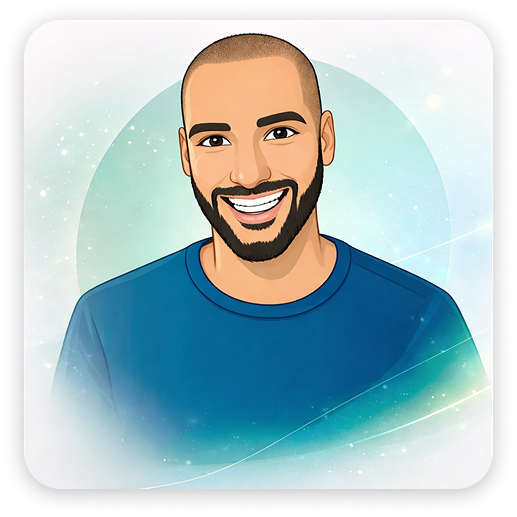
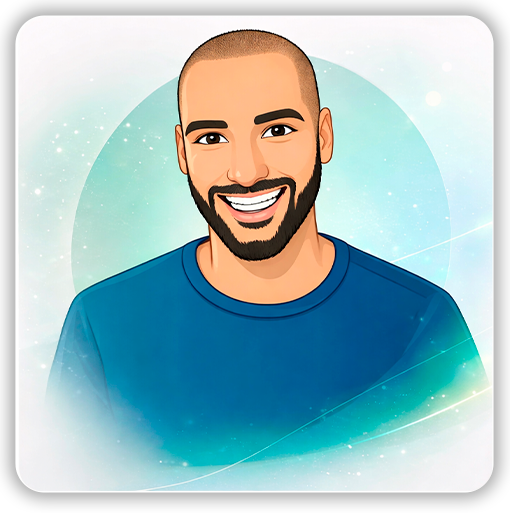
feat: intensificado glassmorphism, ajuste pixel-perfect na hero e swipe-to-close no mobile

diff --git a/src/components/HeroSection/HeroSection.tsx b/src/components/HeroSection/HeroSection.tsx
@@ -1,32 +1,11 @@
 'use client';
 
 import Image from 'next/image';
-import { motion } from 'framer-motion';
 
 export default function HeroSection() {
-  const containerVariants = {
-    hidden: { opacity: 0 },
-    visible: {
-      opacity: 1,
-      transition: {
-        staggerChildren: 0.15,
-        delayChildren: 0.2,
-      },
-    },
-  };
-
-  const itemVariants = {
-    hidden: { opacity: 0, y: 20 },
-    visible: {
-      opacity: 1,
-      y: 0,
-      transition: { duration: 0.8, ease: 'easeOut' },
-    },
-  };
-
   return (
     <section id="início" className="relative pt-4 lg:pt-16 pb-16 overflow-hidden">
-      {/* Background */}
+      {/* Background Decorativo */}
       <div className="absolute inset-0 -z-10">
         <Image
           src="/assets/images/backgrounds/bg-liquid-forms.jpg"
@@ -39,84 +18,68 @@ export default function HeroSection() {
         <div className="absolute inset-0 bg-gradient-to-b from-white/40 via-white/50 to-cyan-50/40 dark:from-slate-950/50 dark:via-slate-900/50 dark:to-blue-950/30" />
       </div>
 
-      {/* Main Container */}
       <div className="mx-auto max-w-7xl px-4 md:px-6 lg:px-8">
-        <motion.div
-          className="relative rounded-3xl overflow-hidden bg-gradient-to-br from-white/25 to-cyan-100/25 dark:from-slate-800/50 dark:to-blue-900/50 backdrop-blur-xl border border-white/60 dark:border-white/20 shadow-[0px_4px_24px_0px_rgba(0,0,0,0.25)] p-8 sm:p-12 lg:p-10"
-          variants={containerVariants}
-          initial="hidden"
-          animate="visible"
-        >
-          <div className="grid grid-cols-1 lg:grid-cols-2 gap-12 lg:gap-8">
+        <div className="relative rounded-3xl overflow-hidden bg-white/10 dark:bg-slate-900/40 backdrop-blur-[24px] border border-white/40 dark:border-white/10 shadow-[0px_8px_32px_0px_rgba(0,0,0,0.3)] p-8 sm:p-12 lg:p-10 animate-in fade-in duration-700">
+          <div className="grid grid-cols-1 lg:grid-cols-2 gap-12 lg:gap-8 items-center">
 
             {/* Coluna de texto */}
-            <motion.div className="flex flex-col justify-center items-center lg:items-start space-y-6 text-center lg:text-left">
-
-              <motion.div variants={itemVariants}>
-                <h1 className="font-black text-4xl sm:text-6xl md:text-6xl lg:text-5xl xl:text-6xl leading-tight tracking-tighter font-gotham">
-                  <span className="text-blue-900 dark:text-blue-300">Oi, eu sou Abner</span>
+            <div className="flex flex-col justify-center items-center lg:items-start space-y-6 text-center lg:text-left order-1">
+              <div className="animate-in fade-in slide-in-from-bottom-4 duration-700 delay-150 fill-mode-both">
+                <h1 className="font-black text-4xl sm:text-6xl lg:text-5xl xl:text-6xl leading-tight tracking-tighter font-gotham text-blue-900 dark:text-blue-300">
+                  Oi, eu sou Abner
                 </h1>
-              </motion.div>
+              </div>
 
-              <motion.p
-                variants={itemVariants}
-                className="text-xl sm:text-2xl md:text-2xl lg:text-2xl font-bold text-emerald-600 dark:text-emerald-400 leading-tight"
-              >
+              <p className="text-xl font-bold text-emerald-600 dark:text-emerald-400 leading-tight animate-in fade-in slide-in-from-bottom-4 duration-700 delay-300 fill-mode-both">
                 Eu crio marcas e construo experiências digitais modernas.
-              </motion.p>
+              </p>
 
-              <motion.p
-                variants={itemVariants}
-                className="text-base sm:text-lg md:text-base text-slate-700 dark:text-slate-300 leading-relaxed max-w-lg"
-              >
+              <p className="text-base text-slate-700 dark:text-slate-300 leading-relaxed max-w-lg animate-in fade-in slide-in-from-bottom-4 duration-700 delay-500 fill-mode-both">
                 Designer com trajetória desde 2011 em branding, UI/UX e design digital,
                 combinando criatividade, estratégia e desenvolvimento front-end.
-              </motion.p>
+              </p>
 
-              {/* Foto mobile */}
-              <motion.div variants={itemVariants} className="flex justify-center lg:hidden w-full">
-                <div className="relative w-full max-w-xs sm:max-w-sm rounded-3xl overflow-hidden">
+              {/* Foto mobile - Onde aplicamos o Zoom de "5px" (scale-110) */}
+              <div className="flex justify-center lg:hidden w-full animate-in fade-in slide-in-from-bottom-4 duration-700 delay-700 fill-mode-both py-4">
+                <div className="relative w-full max-w-[280px] aspect-square rounded-3xl overflow-hidden border border-white/20 shadow-xl bg-white/5">
                   <Image
                     src="/assets/images/profile/abner-hero-photo.png"
-                    alt="Abner Simão - Designer Gráfico e Desenvolvedor Front-end"
-                    width={469}
-                    height={469}
-                    className="w-full h-full object-cover"
+                    alt="Abner Simão"
+                    fill
+                    className="object-cover object-top scale-[1.10]" 
                     priority
-                    quality={85}
+                    quality={100}
                   />
                 </div>
-              </motion.div>
+              </div>
 
               {/* Botões */}
-              <motion.div variants={itemVariants} className="flex flex-col sm:flex-row gap-4 pt-4 w-full justify-center lg:justify-start">
-                <button className="px-8 py-3 rounded-xl border-2 border-blue-900 dark:border-blue-400 text-blue-900 dark:text-blue-300 font-bold uppercase tracking-tight transition-all hover:bg-blue-900 hover:text-white dark:hover:bg-blue-400 dark:hover:text-slate-950 text-sm md:text-base">
+              <div className="flex flex-col sm:flex-row gap-4 pt-4 w-full justify-center lg:justify-start animate-in fade-in slide-in-from-bottom-4 duration-700 delay-1000 fill-mode-both">
+                <button className="px-8 py-3 rounded-xl border-2 border-blue-900 dark:border-blue-400 text-blue-900 dark:text-blue-300 font-bold uppercase tracking-tight transition-all hover:bg-blue-900 hover:text-white text-sm">
                   Ver Projetos
                 </button>
-                <button className="px-8 py-3 rounded-xl bg-gradient-to-r from-white/40 to-emerald-400/50 dark:from-slate-800/60 dark:to-emerald-600/50 border border-emerald-500 dark:border-emerald-400 text-slate-900 dark:text-white font-bold uppercase tracking-tight transition-all hover:shadow-lg hover:from-white/60 dark:hover:from-slate-700/80 backdrop-blur-sm text-sm md:text-base">
+                <button className="px-8 py-3 rounded-xl bg-gradient-to-r from-white/40 to-emerald-400/50 dark:from-slate-800/60 dark:to-emerald-600/50 border border-emerald-500 text-slate-900 dark:text-white font-bold uppercase tracking-tight transition-all hover:shadow-lg backdrop-blur-sm text-sm">
                   Solicitar Orçamento
                 </button>
-              </motion.div>
+              </div>
+            </div>
 
-            </motion.div>
-
-            {/* Foto desktop */}
-            <motion.div variants={itemVariants} className="hidden lg:flex justify-center items-center">
-              <div className="relative w-full max-w-sm lg:max-h-[380px] rounded-3xl overflow-hidden">
+            {/* Foto desktop - Aplicado o mesmo Zoom de "5px" (scale-110) */}
+            <div className="hidden lg:flex justify-center items-center animate-in fade-in zoom-in-95 duration-1000 delay-500 fill-mode-both order-2">
+              <div className="relative w-full aspect-square max-w-[360px] rounded-3xl overflow-hidden border border-white/20 shadow-2xl bg-white/5">
                 <Image
                   src="/assets/images/profile/abner-hero-photo.png"
-                  alt="Abner Simão - Designer Gráfico e Desenvolvedor Front-end"
-                  width={469}
-                  height={469}
-                  className="w-full h-full object-cover object-top"
+                  alt="Abner Simão"
+                  fill
+                  className="object-cover object-top scale-[1.10]" // <- Atualizado aqui tbm
                   priority
-                  quality={85}
+                  quality={100}
                 />
               </div>
-            </motion.div>
+            </div>
 
           </div>
-        </motion.div>
+        </div>
       </div>
     </section>
   );

diff --git a/src/components/Navbar/MobileMenu.tsx b/src/components/Navbar/MobileMenu.tsx
@@ -1,7 +1,7 @@
 'use client';
 
 import Link from 'next/link';
-import { motion } from 'framer-motion';
+import { motion, AnimatePresence } from 'framer-motion';
 
 interface MobileMenuProps {
   isOpen: boolean;
@@ -21,31 +21,64 @@ export default function MobileMenu({
   onClose,
 }: MobileMenuProps) {
   return (
-    <motion.div
-      initial={{ opacity: 0, x: -300 }}
-      animate={isOpen ? { opacity: 1, x: 0 } : { opacity: 0, x: -300 }}
-      transition={{ duration: 0.3 }}
-      className={`fixed left-0 top-[80px] z-50 h-screen w-64 bg-blue-900/95 dark:bg-slate-900/95 backdrop-blur-xl border-r border-white/20 dark:border-white/10 overflow-y-auto ${
-        isOpen ? 'block' : 'hidden'
-      }`}
-    >
-      <ul className="flex flex-col gap-0">
-        {links.map((item) => (
-          <li key={item}>
-            <Link
-              href={getHref(item)}
-              target={item === 'Tutoriais' ? '_blank' : '_self'}
-              onClick={(e) => {
-                handleClick(e, item);
+    <AnimatePresence>
+      {isOpen && (
+        <>
+          {/* Overlay - Fecha o menu ao clicar fora */}
+          <motion.div
+            initial={{ opacity: 0 }}
+            animate={{ opacity: 1 }}
+            exit={{ opacity: 0 }}
+            onClick={onClose}
+            className="fixed inset-0 z-40 bg-slate-950/60 backdrop-blur-sm lg:hidden"
+          />
+
+          {/* Menu Lateral com Gesto de Arraste e Correção da Foto */}
+          <motion.div
+            drag="x"
+            dragConstraints={{ left: -300, right: 0 }}
+            dragElastic={0.1}
+            onDragEnd={(e, info) => {
+              // Se arrastar mais de 80px para a esquerda (fechar), dispara o onClose
+              if (info.offset.x < -80) {
                 onClose();
-              }}
-              className="block px-6 py-4 text-sm font-bold uppercase tracking-widest text-white/80 transition-colors hover:bg-white/10 dark:hover:bg-white/5 hover:text-emerald-400 dark:hover:text-emerald-300 border-b border-white/5 dark:border-white/3"
-            >
-              {labels[item]}
-            </Link>
-          </li>
-        ))}
-      </ul>
-    </motion.div>
+              }
+            }}
+            initial={{ x: -300, opacity: 0 }}
+            animate={{ x: 0, opacity: 1 }}
+            exit={{ x: -300, opacity: 0 }}
+            transition={{ type: 'spring', damping: 25, stiffness: 200 }}
+            className="fixed left-0 top-0 z-50 h-screen w-64 bg-blue-900/95 dark:bg-slate-900/95 backdrop-blur-xl border-r border-white/20 dark:border-white/10 overflow-y-auto pt-24 shadow-2xl lg:hidden"
+          >
+            {/* O Pulo do Gato para a foto Mobile */}
+            <div className="flex flex-col gap-6 px-6">
+              
+              <ul className="flex flex-col gap-0">
+                {links.map((item) => (
+                  <li key={item}>
+                    <Link
+                      href={getHref(item)}
+                      target={item === 'Tutoriais' ? '_blank' : '_self'}
+                      onClick={(e) => {
+                        handleClick(e, item);
+                        onClose();
+                      }}
+                      className="block py-5 text-sm font-black uppercase tracking-widest text-white/80 transition-colors hover:bg-white/10 dark:hover:bg-white/5 hover:text-emerald-400 dark:hover:text-emerald-300 border-b border-white/5 dark:border-white/5"
+                    >
+                      {labels[item]}
+                    </Link>
+                  </li>
+                ))}
+              </ul>
+            </div>
+
+            {/* Indicador visual de gesto */}
+            <div className="mt-auto p-6 text-white/20 text-[10px] uppercase tracking-widest text-center">
+              ← Arraste para fechar
+            </div>
+          </motion.div>
+        </>
+      )}
+    </AnimatePresence>
   );
 }

diff --git a/tailwind.config.js b/tailwind.config.js
@@ -35,5 +35,7 @@ module.exports = {
       },
     },
   },
-  plugins: [],
+  plugins: [
+    require("tailwindcss-animate"),
+  ],
 };
